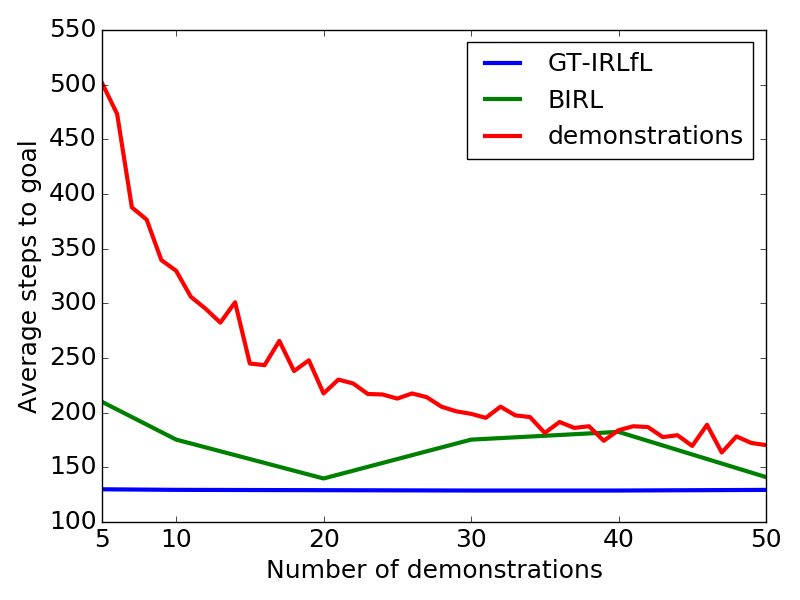
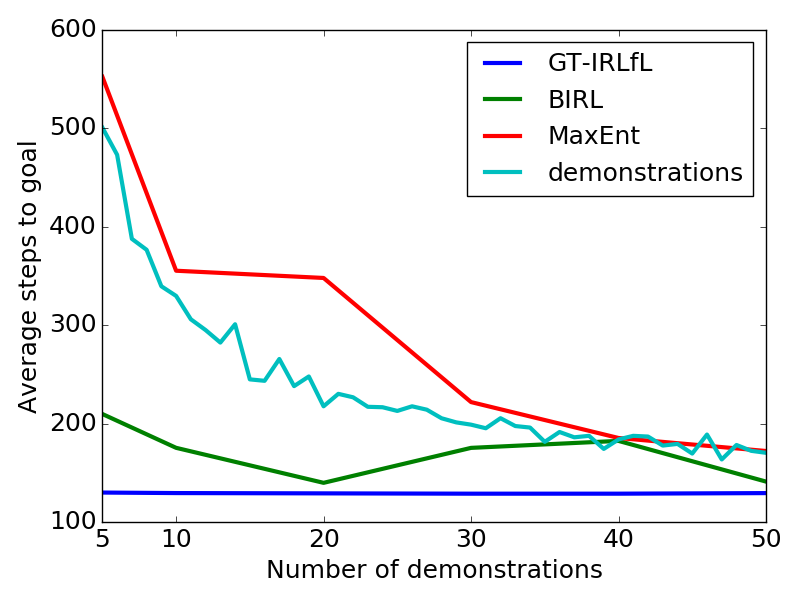
mcar plot

diff --git a/scripts/plot_mcar_basic_exp.py b/scripts/plot_mcar_basic_exp.py
@@ -40,11 +40,22 @@ for demos in demonstrations:
         for line in reader:
             birl_returns.append(float(line)) 
     birl.append(-np.mean(birl_returns))
+    
+#plot MaxEnt
+maxent = []
+for demos in demonstrations:
+    maxent_returns = []
+    for seed in range(num_reps):
+        reader = open("data/mcar_maxent_seed" + str(seed) + "_demos" + str(demos))
+        for line in reader:
+            maxent_returns.append(float(line)) 
+    maxent.append(-np.mean(maxent_returns))
 
   
 
 plt.plot(demonstrations, mwal, label="GT-IRLfL", lw=3)
 plt.plot(demonstrations, birl, label="BIRL", lw=3)
+plt.plot(demonstrations, maxent, label="MaxEnt", lw=3)
 plt.plot(range(5,max_demos + 1), demo_returns, label="demonstrations", lw=3)  
 plt.xlabel("Number of demonstrations",fontsize=18)
 plt.ylabel("Average steps to goal",fontsize=18)
